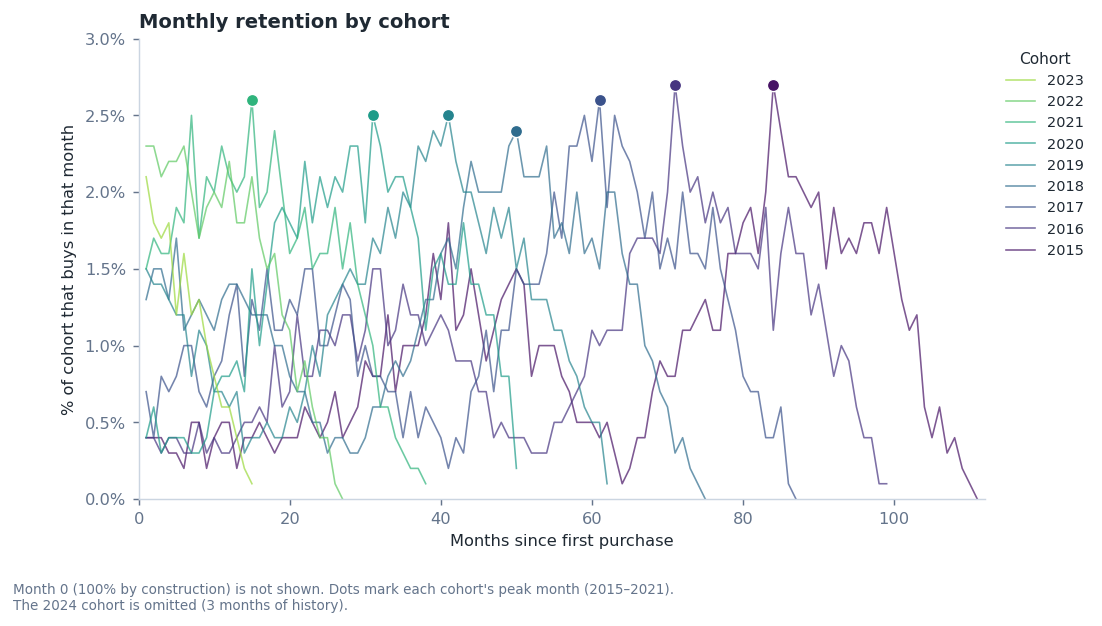
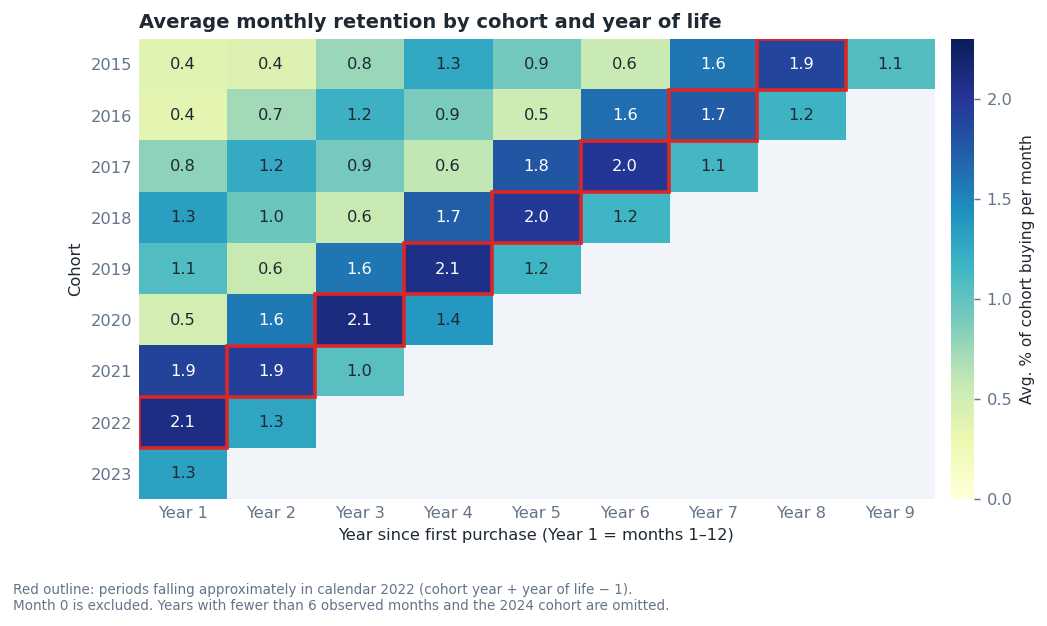
Replace 03_retention_curve.png

diff --git a/README.es.md b/README.es.md
@@ -234,7 +234,7 @@ ORDER BY cr.cohort_year, month_from_first_purchase;
 
 ### 4. Retención y riesgo por cliente (3, 4)
 
-![Retención mensual por cohorte](assets/03_retention_curve.png)
+![Retención mensual promedio por cohorte y año de vida](assets/03_retention_curve.png)
 
 - **Query 3:** de 49.487 clientes, 55,7% tiene historial insuficiente (compraron en una sola ocasión), 34,3% Active y 10% At Risk.
 - Entre los que se pueden evaluar (21.939), el 22,6% está At Risk.

diff --git a/README.md b/README.md
@@ -234,7 +234,7 @@ ORDER BY cr.cohort_year, month_from_first_purchase;
 
 ### 4. Retention and risk per customer (3, 4)
 
-![Monthly retention by cohort](assets/03_retention_curve.png)
+![Average monthly retention by cohort and year of life](assets/03_retention_curve.png)
 
 - **Query 3:** out of 49,487 customers, 55.7% have insufficient history (they bought only once), 34.3% are Active and 10% are At Risk.
 - Among those who can be evaluated (21,939), 22.6% are At Risk.
